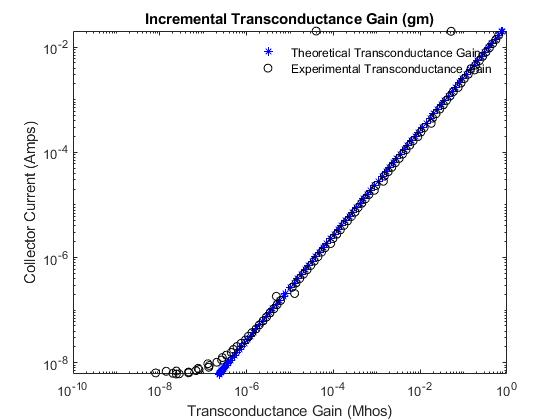
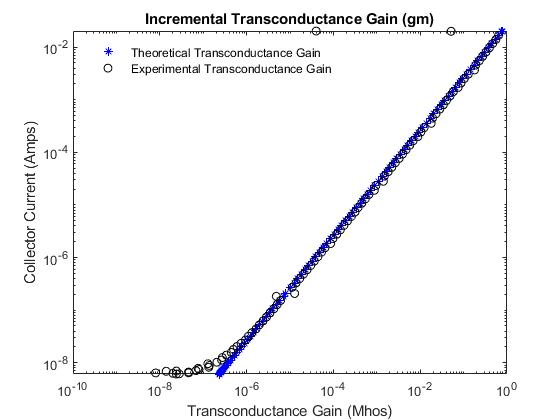
updates to experiment 1

Changed region(s): [[0.2429, 0.0929, 0.8804, 0.1857], [0.1821, 0.0929, 0.2125, 0.1857]]

diff --git a/Lab_3_Resistors_and_Bipolar_Transistors/data_and_code/Exp1_plot.m b/Lab_3_Resistors_and_Bipolar_Transistors/data_and_code/Exp1_plot.m
@@ -75,7 +75,7 @@ ylabel("Base Current (Amps)");
 
 legend('Theoretical Incremental Base Resistance','Experimental Incremental Base Resistance')
 legend('boxoff')
-legend('Location','northeast')
+legend('Location','northwest')
 
 hold off;
 %% Plot 4 gm = Ic/Ut
@@ -99,6 +99,6 @@ ylabel('Collector Current (Amps)')
 
 legend('Theoretical Transconductance Gain','Experimental Transconductance Gain')
 legend('boxoff')
-legend('Location','northeast')
+legend('Location','northwest')
 
 hold off;
